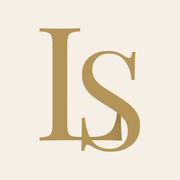
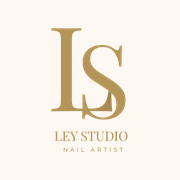
feat: app instalable (PWA) para iPhone — iconos, manifests, service worker

Changed region(s): [[0.1944, 0.1389, 0.7778, 0.8611], [0.4444, 0.1389, 0.4722, 0.1667]]

diff --git a/sw.js b/sw.js
@@ -1,0 +1,29 @@
+// Ley Studio — service worker: HTML siempre fresco (red primero), assets con caché
+const CACHE='leystudio-v1';
+const ASSETS=['/assets/logo.png','/assets/icon-192.png','/assets/icon-512.png','/assets/favicon.png'];
+self.addEventListener('install',e=>{
+  e.waitUntil(caches.open(CACHE).then(c=>c.addAll(ASSETS)).then(()=>self.skipWaiting()));
+});
+self.addEventListener('activate',e=>{
+  e.waitUntil(caches.keys().then(ks=>Promise.all(ks.filter(k=>k!==CACHE).map(k=>caches.delete(k)))).then(()=>self.clients.claim()));
+});
+self.addEventListener('fetch',e=>{
+  const url=new URL(e.request.url);
+  if(url.origin!==location.origin) return; // CDNs y Firebase van directo
+  if(e.request.mode==='navigate' || url.pathname.endsWith('.html') || url.pathname.endsWith('/')){
+    // Red primero: siempre la última versión; caché solo si no hay conexión
+    e.respondWith(
+      fetch(e.request).then(r=>{
+        const copy=r.clone();
+        caches.open(CACHE).then(c=>c.put(e.request,copy));
+        return r;
+      }).catch(()=>caches.match(e.request))
+    );
+    return;
+  }
+  if(url.pathname.startsWith('/assets/')){
+    e.respondWith(caches.match(e.request).then(hit=>hit||fetch(e.request).then(r=>{
+      const copy=r.clone(); caches.open(CACHE).then(c=>c.put(e.request,copy)); return r;
+    })));
+  }
+});

diff --git a/reserva.html b/reserva.html
@@ -5,6 +5,12 @@
 <meta name="viewport" content="width=device-width, initial-scale=1.0">
 <title>Reserva tu cita · Ley Studio</title>
 <link rel="icon" href="/assets/favicon.png">
+<link rel="manifest" href="/manifest-reserva.json">
+<link rel="apple-touch-icon" href="/assets/apple-touch-icon.png">
+<meta name="apple-mobile-web-app-capable" content="yes">
+<meta name="apple-mobile-web-app-status-bar-style" content="default">
+<meta name="apple-mobile-web-app-title" content="Ley Studio">
+<meta name="theme-color" content="#FDF8F2">
 <link rel="preconnect" href="https://fonts.googleapis.com">
 <link href="https://fonts.googleapis.com/css2?family=Inter:wght@400;500;600;700;800&family=Playfair+Display:ital,wght@0,600;0,700;1,600&display=swap" rel="stylesheet">
 <style>
@@ -351,6 +357,7 @@ async function enviar(){
   }
 }
 init();
+if('serviceWorker' in navigator){ navigator.serviceWorker.register('/sw.js').catch(()=>{}); }
 </script>
 </body>
 </html>

diff --git a/sistema/index.html b/sistema/index.html
@@ -1,6 +1,12 @@
 <!DOCTYPE html>
 <html lang="es">
 <head>
+<link rel="manifest" href="/sistema/manifest.json">
+<link rel="apple-touch-icon" href="/assets/apple-touch-icon.png">
+<meta name="apple-mobile-web-app-capable" content="yes">
+<meta name="apple-mobile-web-app-status-bar-style" content="default">
+<meta name="apple-mobile-web-app-title" content="Ley Studio">
+<meta name="theme-color" content="#FDF8F2">
 <meta charset="UTF-8">
 <meta name="viewport" content="width=device-width,initial-scale=1,maximum-scale=1,user-scalable=no">
 <meta name="theme-color" content="#0a0a0a">
@@ -3605,6 +3611,7 @@ function autoRegistrarIngreso(cita,fechaCobro){
   return true;
 }
 // Errores JS visibles (máx. 1 aviso cada 6s) — evita fallos silenciosos al guardar
+if('serviceWorker' in navigator){ try{ navigator.serviceWorker.register('/sw.js').catch(()=>{}); }catch(e){} }
 window.addEventListener('error',function(e){
   try{
     if(window.__errT && Date.now()-window.__errT<6000) return;